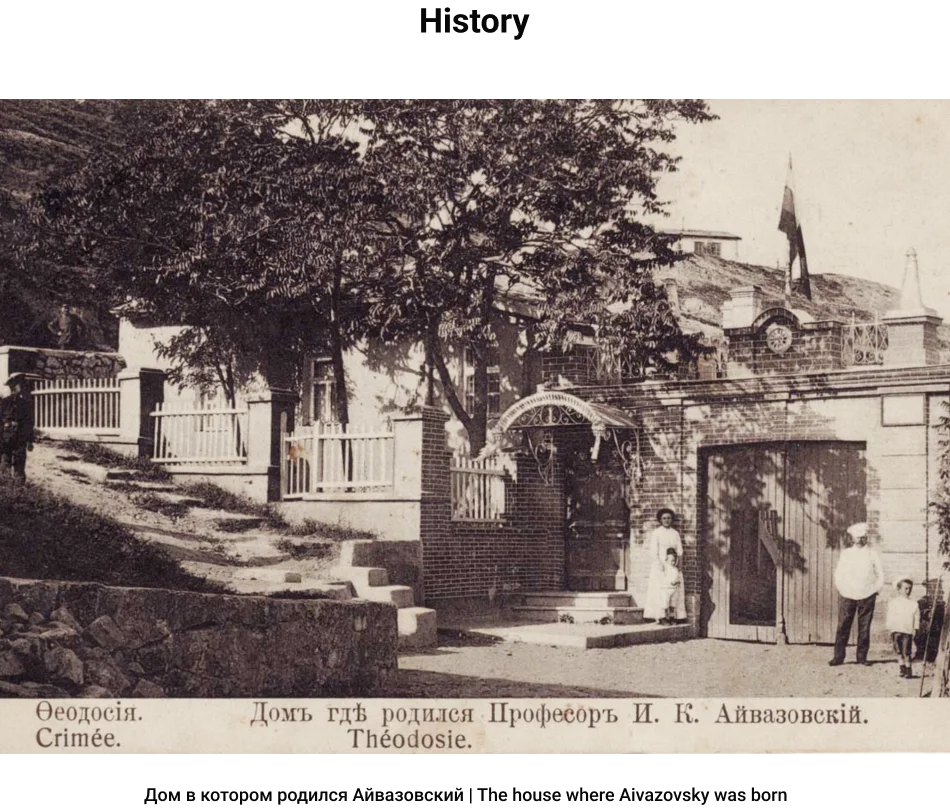
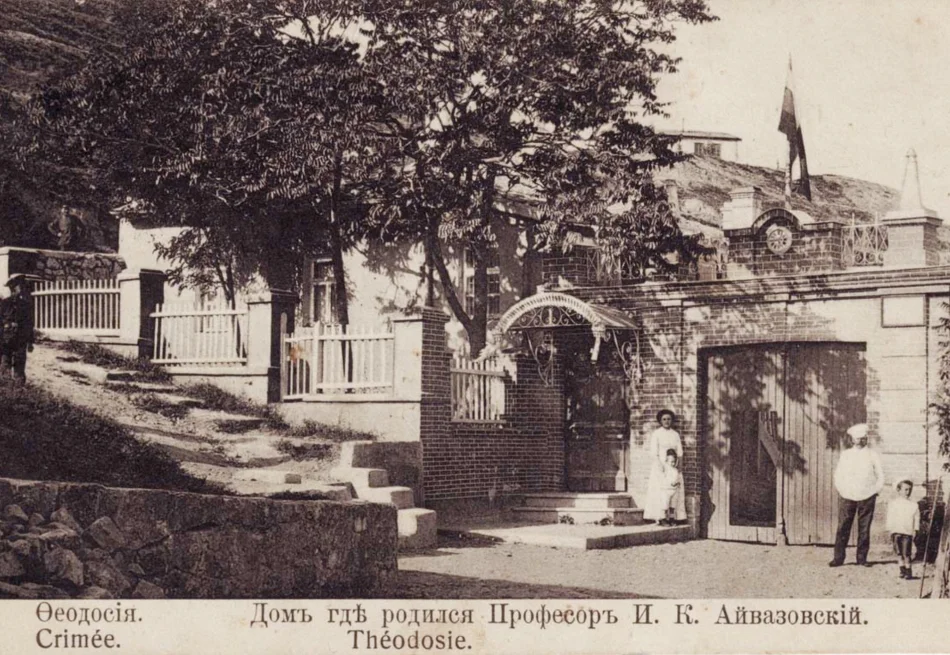
Section history

diff --git a/style/history.css b/style/history.css
@@ -1,0 +1,37 @@
+.history-section {
+  padding: 65px 0 70px;
+  text-align: center;
+  color: var(--color-main-black);
+
+}
+.history-title {
+  font-size: 34px;
+  font-weight: 700;
+}
+
+.history-photo {
+  width: 100%;
+  max-width: 950px;
+  height: 655px;
+  object-fit: cover;
+  margin: 60px 0 0 0;
+}
+
+.history-description {
+  font-size: 18px;
+  font-weight: 500;
+  margin: 30px 0 0 0;
+}
+
+@media (max-width: 480px) {
+  .history-section {
+    padding: 50px 0 70px;
+  }
+  .history-photo {
+    height: 480px;
+    
+  }
+  .history-description {
+    font-size: 14px;
+  }
+}

diff --git a/index.html b/index.html
@@ -48,6 +48,16 @@
       </div>
     </section>
 
+    <section class="history-section" aria-label="history section">
+      <div class="container">
+        <h2 class="history-title" aria-label="history title">History</h2>
+        <img src="./assets/webp/history.webp" alt="house of Aivazovsky" class="history-photo">
+        <p class="history-description" aria-label="history description">
+          Дом в котором родился Айвазовский | The house where Aivazovsky was born 
+        </p>
+      </div>
+    </section>
+
   </main>
 
   <footer></footer>

diff --git a/index.css b/index.css
@@ -3,4 +3,5 @@
 @import url(./style/header.css);
 @import url(./style/home.css);
 @import url(./style/about.css);
+@import url(.//style/history.css);
 

diff --git a/style/basic.css b/style/basic.css
@@ -19,7 +19,7 @@ a {
   color: unset;
 }
 
-h1, p {
+h1, h2, p {
   margin: 0;
 }
 
